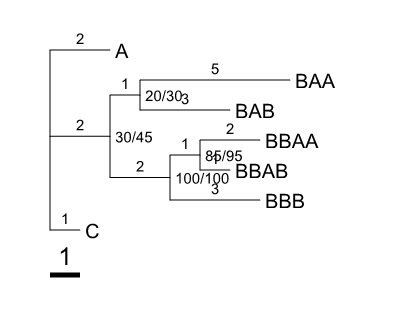
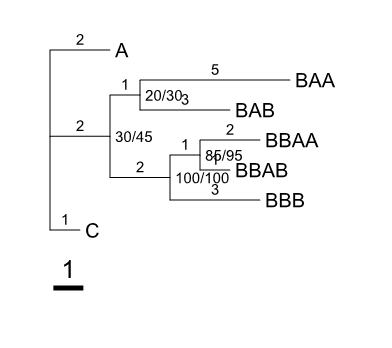
fix: position calculation on text

Changed region(s): [[0.1224, 0.0871, 0.8571, 0.9]]

diff --git a/src/TreeViewer.Core/Drawing/PositionManager.cs b/src/TreeViewer.Core/Drawing/PositionManager.cs
@@ -1,4 +1,5 @@
 using TreeViewer.Core.Drawing.Styles;
+using TreeViewer.Core.Exporting;
 using TreeViewer.Core.Trees;
 
 namespace TreeViewer.Core.Drawing
@@ -44,6 +45,23 @@ namespace TreeViewer.Core.Drawing
             indexTable = tree.GetAllLeaves()
                              .Select((x, i) => (x, i))
                              .ToDictionary();
+        }
+
+        /// <summary>
+        /// テキストのサイズを算出します。
+        /// </summary>
+        /// <param name="text">テキスト内容</param>
+        /// <param name="fontSize">フォントサイズ</param>
+        /// <returns>テキストエリアのサイズ</returns>
+        public static (double width, double height) CalcTextSize(string? text, int fontSize)
+        {
+            var svg = new Svg.SvgText(text)
+            {
+                FontSize = fontSize,
+                FontFamily = SvgExporter.FontFamily,
+            };
+            System.Drawing.SizeF size = svg.Bounds.Size;
+            return (size.Width, size.Height);
         }
 
         /// <summary>
@@ -202,9 +220,10 @@ namespace TreeViewer.Core.Drawing
         public (double width, double height) CalcDocumentSize()
         {
             double width = allLeaves.Select(x => x.GetTotalBranchLength()).Max() * treeStyle.XScale + 100;
-            if (treeStyle.ShowLeafLabels) width += allLeaves.Select(x => (x.Taxon ?? string.Empty).Length).Max() * treeStyle.LeafLabelsFontSize / 1.25;
+            if (treeStyle.ShowLeafLabels) width += allLeaves.Select(x => CalcTextSize(x.Taxon, treeStyle.LeafLabelsFontSize).width).Max();
 
             double height = allLeaves.Length * treeStyle.YScale + 100;
+            if (treeStyle.ShowScaleBar) height += CalcTextSize(treeStyle.ScaleBarValue.ToString(), treeStyle.ScaleBarFontSize).height + 20;
 
             return (width, height);
         }
@@ -215,14 +234,16 @@ namespace TreeViewer.Core.Drawing
         /// <param name="clade">計算対象</param>
         /// <returns><paramref name="clade"/>における葉の座標</returns>
         /// <exception cref="ArgumentNullException"><paramref name="clade"/>が<see langword="null"/></exception>
-        public (double x, double y) CalcLeafPosition(Clade clade)
+        public (double x, double y, double width, double height) CalcLeafPosition(Clade clade)
         {
             ArgumentNullException.ThrowIfNull(clade);
 
-            double x = CalcTotalBranchLength(clade) * treeStyle.XScale + 5;
-            double y = CalcY1(clade) + treeStyle.LeafLabelsFontSize / 2.5;
+            (double width, double height) = CalcTextSize(clade.Taxon, treeStyle.LeafLabelsFontSize);
 
-            return (x, y);
+            double x = CalcTotalBranchLength(clade) * treeStyle.XScale + 5;
+            double y = CalcY1(clade) + height / 2;
+
+            return (x, y, width, height);
         }
 
         /// <summary>
@@ -260,15 +281,18 @@ namespace TreeViewer.Core.Drawing
         /// 結節点の値の座標を算出します。
         /// </summary>
         /// <param name="clade">計算対象</param>
+        /// <param name="text">表示する値</param>
         /// <returns><paramref name="clade"/>における結節点の値の座標</returns>
         /// <exception cref="ArgumentNullException"><paramref name="clade"/>が<see langword="null"/></exception>
-        public (double x, double y) CalcNodeValuePosition(Clade clade)
+        public (double x, double y) CalcNodeValuePosition(Clade clade, string text)
         {
             ArgumentNullException.ThrowIfNull(clade);
 
             double x = CalcTotalBranchLength(clade) * treeStyle.XScale + 5;
-            double y = CalcY1(clade) + treeStyle.NodeValueFontSize / 2.5;
-            if (clade.ChildrenInternal.Count % 2 == 1) y += treeStyle.BranchThickness / 2 + treeStyle.NodeValueFontSize / 2.5 + 3;
+            (_, double height) = CalcTextSize(text, treeStyle.NodeValueFontSize);
+            double y = CalcY1(clade) + height / 2;
+
+            if (clade.ChildrenInternal.Count % 2 == 1) y += treeStyle.BranchThickness / 2 + height / 2 + 3;
 
             return (x, y);
         }
@@ -296,14 +320,16 @@ namespace TreeViewer.Core.Drawing
         /// 枝の値の座標を算出します。
         /// </summary>
         /// <param name="clade">計算対象</param>
+        /// <param name="text">表示する値</param>
         /// <returns><paramref name="clade"/>における枝の値の座標</returns>
         /// <exception cref="ArgumentNullException"><paramref name="clade"/>が<see langword="null"/></exception>
-        public (double x, double y) CalcBranchValuePosition(Clade clade)
+        public (double x, double y) CalcBranchValuePosition(Clade clade, string text)
         {
             ArgumentNullException.ThrowIfNull(clade);
 
             double x = (CalcX1(clade) + CalcX2(clade)) / 2;
-            double y = CalcY1(clade) - treeStyle.BranchValueFontSize / 2.5 - treeStyle.BranchThickness / 2;
+            (_, double height) = CalcTextSize(text, treeStyle.BranchValueFontSize);
+            double y = CalcY1(clade) - height / 2 - treeStyle.BranchThickness / 2;
 
             return (x, y);
         }
@@ -358,9 +384,10 @@ namespace TreeViewer.Core.Drawing
         /// <returns>スケールバーの座標オフセット</returns>
         public (double x, double y) CalcScaleBarOffset()
         {
-            double y = indexTable.Count * treeStyle.YScale + 30 + treeStyle.ScaleBarFontSize;
+            (double textWidth, double textHeight) = CalcTextSize(treeStyle.ScaleBarValue.ToString(), treeStyle.ScaleBarFontSize);
+            double y = indexTable.Count * treeStyle.YScale + 30 + textHeight;
 
-            return (50, y);
+            return (50 + textWidth / 2, 20 + y);
         }
 
         /// <summary>

diff --git a/src/TreeViewer/ViewModels/HomeViewModel.cs b/src/TreeViewer/ViewModels/HomeViewModel.cs
@@ -832,39 +832,47 @@ namespace TreeViewer.ViewModels
         /// <param name="id">SVG要素のID</param>
         private void OnSvgElementClicked(string id)
         {
-            switch (EditMode.Value)
+            try
             {
-                case TreeEditMode.Select:
-                    switch (SelectionTarget.Value)
-                    {
-                        case SelectionMode.Node:
-                            {
-                                Focus(CladeIdManager.FromId(id));
-                            }
-                            break;
+                switch (EditMode.Value)
+                {
+                    case TreeEditMode.Select:
+                        switch (SelectionTarget.Value)
+                        {
+                            case SelectionMode.Node:
+                                {
+                                    Focus(CladeIdManager.FromId(id));
+                                }
+                                break;
 
-                        case SelectionMode.Clade:
-                            {
-                                Clade target = CladeIdManager.FromId(id);
-                                Focus(target.GetDescendants().Prepend(target));
-                            }
-                            break;
+                            case SelectionMode.Clade:
+                                {
+                                    Clade target = CladeIdManager.FromId(id);
+                                    Focus(target.GetDescendants().Prepend(target));
+                                }
+                                break;
 
-                        case SelectionMode.Taxa:
-                            {
-                                Clade target = CladeIdManager.FromId(id);
-                                if (target.IsLeaf) Focus(target);
-                                else Focus(target.GetDescendants().Where(x => x.IsLeaf));
-                            }
-                            break;
-                    }
+                            case SelectionMode.Taxa:
+                                {
+                                    Clade target = CladeIdManager.FromId(id);
+                                    if (target.IsLeaf) Focus(target);
+                                    else Focus(target.GetDescendants().Where(x => x.IsLeaf));
+                                }
+                                break;
+                        }
 
-                    OnPropertyChanged(nameof(FocusedSvgElementIdList));
-                    break;
+                        OnPropertyChanged(nameof(FocusedSvgElementIdList));
+                        break;
 
-                case TreeEditMode.Reroot:
-                    if (id.EndsWith("-node")) Reroot(CladeIdManager.FromId(id));
-                    break;
+                    case TreeEditMode.Reroot:
+                        if (id.EndsWith("-node")) Reroot(CladeIdManager.FromId(id));
+                        break;
+                }
+            }
+            catch (Exception e)
+            {
+                Console.WriteLine(e);
+                Window.ShowErrorMessageAsync(e).Wait();
             }
         }
 
@@ -1134,7 +1142,7 @@ namespace TreeViewer.ViewModels
             }
             catch (Exception e)
             {
-                await Window.ShowErrorMessage(e);
+                await Window.ShowErrorMessageAsync(e);
                 projectPath = null;
             }
         }
@@ -1170,7 +1178,7 @@ namespace TreeViewer.ViewModels
             }
             catch (Exception e)
             {
-                await Window.ShowErrorMessage(e);
+                await Window.ShowErrorMessageAsync(e);
             }
         }
 

diff --git a/src/TreeViewer.Core/Exporting/SvgExporter.cs b/src/TreeViewer.Core/Exporting/SvgExporter.cs
@@ -13,7 +13,7 @@ namespace TreeViewer.Core.Exporting
     /// </summary>
     public class SvgExporter : IExporter
     {
-        private const string FontFamily = "Arial, Helvetica, sans-serif";
+        internal const string FontFamily = "Arial, Helvetica, sans-serif";
 
         /// <inheritdoc/>
         public ExportType Type => ExportType.Svg;
@@ -82,7 +82,7 @@ namespace TreeViewer.Core.Exporting
                     // 系統名
                     if (tree.Style.ShowLeafLabels && !string.IsNullOrEmpty(current.Taxon))
                     {
-                        (double x, double y) = positionManager.CalcLeafPosition(current);
+                        (double x, double y, _, _) = positionManager.CalcLeafPosition(current);
 
                         var leafText = new SvgText(current.Taxon)
                         {
@@ -103,7 +103,7 @@ namespace TreeViewer.Core.Exporting
                         string nodeValue = DrawHelpers.SelectShowValue(current, tree.Style.NodeValueType);
                         if (nodeValue.Length > 0)
                         {
-                            (double x, double y) = positionManager.CalcNodeValuePosition(current);
+                            (double x, double y) = positionManager.CalcNodeValuePosition(current, nodeValue);
 
                             var nodeValueText = new SvgText(nodeValue)
                             {
@@ -210,7 +210,7 @@ namespace TreeViewer.Core.Exporting
                         string branchValue = DrawHelpers.SelectShowValue(current, tree.Style.BranchValueType);
                         if (branchValue.Length > 0 && (!tree.Style.BranchValueHideRegex?.IsMatch(branchValue) ?? true))
                         {
-                            (double x, double y) = positionManager.CalcBranchValuePosition(current);
+                            (double x, double y) = positionManager.CalcBranchValuePosition(current, branchValue);
 
                             var branchValueText = new SvgText(branchValue)
                             {

diff --git a/src/TreeViewer.Core/Exporting/PdfExporter.cs b/src/TreeViewer.Core/Exporting/PdfExporter.cs
@@ -68,7 +68,7 @@ namespace TreeViewer.Core.Exporting
                         // 系統名
                         if (tree.Style.ShowLeafLabels && !string.IsNullOrEmpty(current.Taxon))
                         {
-                            (double x, double y) = positionManager.CalcLeafPosition(current);
+                            (double x, double y, _, _) = positionManager.CalcLeafPosition(current);
 
                             graphics.DrawString(current.Taxon,
                                                 leafFont,
@@ -84,7 +84,7 @@ namespace TreeViewer.Core.Exporting
                             string nodeValue = DrawHelpers.SelectShowValue(current, tree.Style.NodeValueType);
                             if (nodeValue.Length > 0)
                             {
-                                (double x, double y) = positionManager.CalcNodeValuePosition(current);
+                                (double x, double y) = positionManager.CalcNodeValuePosition(current, nodeValue);
 
                                 graphics.DrawString(nodeValue,
                                                     nodeValuesFont,
@@ -152,7 +152,7 @@ namespace TreeViewer.Core.Exporting
                             string branchValue = DrawHelpers.SelectShowValue(current, tree.Style.BranchValueType);
                             if (branchValue.Length > 0 && (!tree.Style.BranchValueHideRegex?.IsMatch(branchValue) ?? true))
                             {
-                                (double x, double y) = positionManager.CalcBranchValuePosition(current);
+                                (double x, double y) = positionManager.CalcBranchValuePosition(current, branchValue);
 
                                 graphics.DrawString(branchValue,
                                                     branchValuesFont,

diff --git a/src/TreeViewer.Core.Test/Exporting/SvgExporterTest.cs b/src/TreeViewer.Core.Test/Exporting/SvgExporterTest.cs
@@ -243,8 +243,8 @@ namespace TreeViewer.Core.Exporting
 
             Assert.Multiple(() =>
             {
-                Assert.Equal(404, svg.Width);
-                Assert.Equal(310, svg.Height);
+                Assert.Equal(392, svg.Width, 0.1);
+                Assert.Equal(348, svg.Height, 0.1);
 
                 SvgElement branchesGroup = svg.GetElementById("branches");
                 Assert.NotNull(branchesGroup);

diff --git a/src/TreeViewer/Window/ElectronWindow.cs b/src/TreeViewer/Window/ElectronWindow.cs
@@ -129,7 +129,7 @@ namespace TreeViewer.Window
         /// エラーメッセージを表示します。
         /// </summary>
         /// <param name="exception">例外</param>
-        public async Task ShowErrorMessage(Exception exception)
+        public async Task ShowErrorMessageAsync(Exception exception)
         {
             string message =
 #if DEBUG
